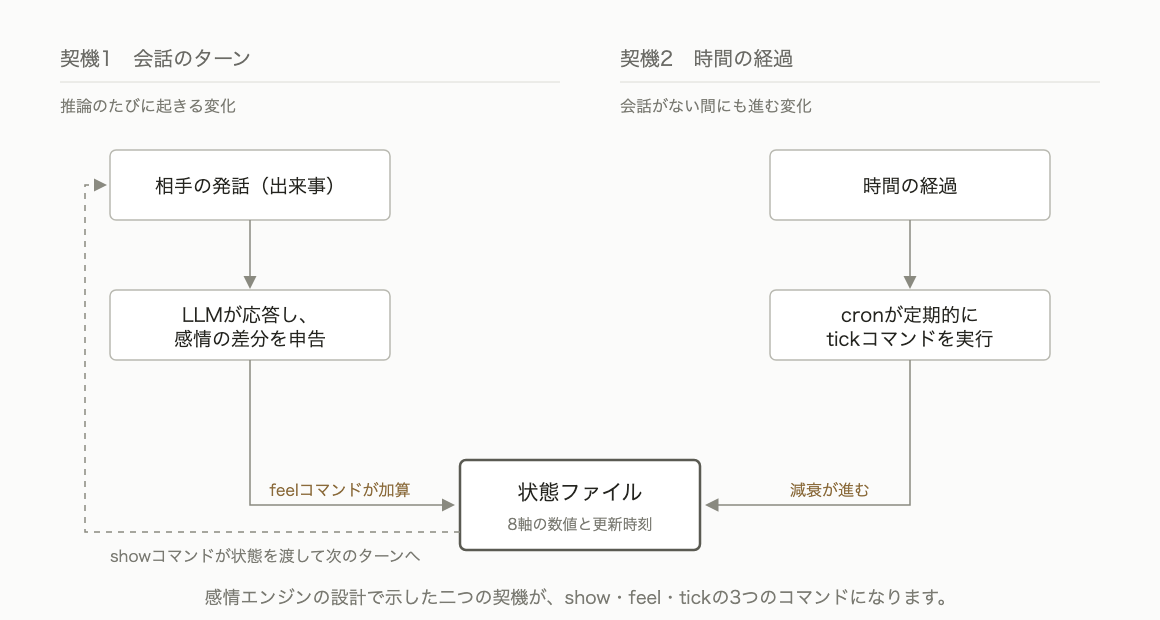
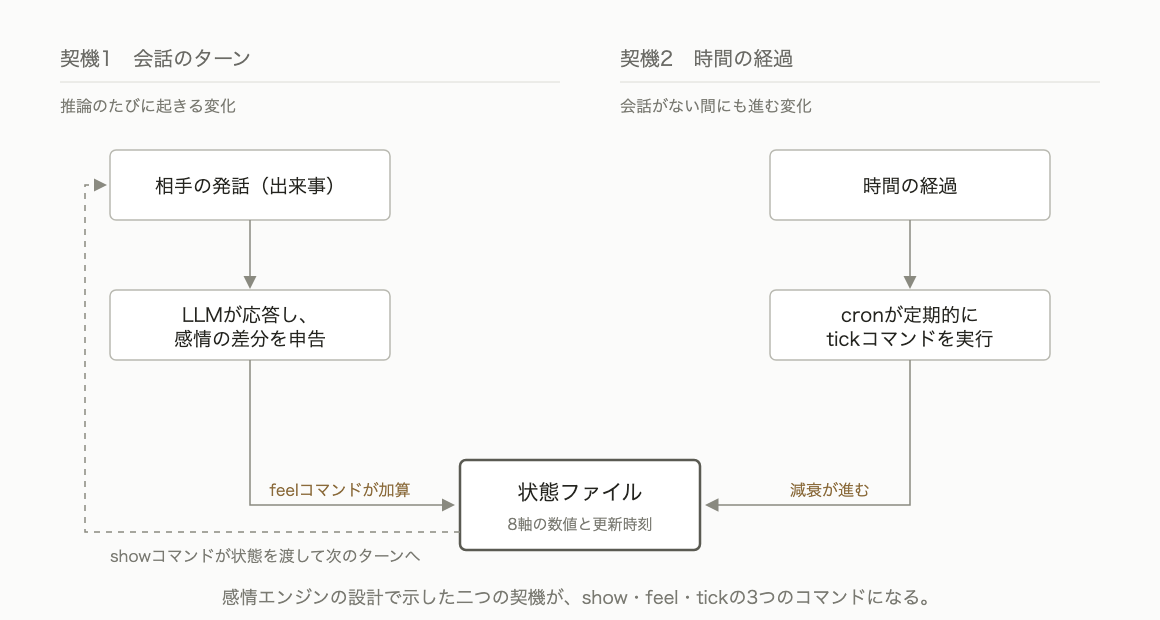
style: 図の中の文をである調に改め画像を作り直す

Changed region(s): [[0.1552, 0.95, 0.8069, 0.9806]]

diff --git a/images/emotion-models-for-llm-agents/src/ch07-label-lineage.py b/images/emotion-models-for-llm-agents/src/ch07-label-lineage.py
@@ -48,7 +48,7 @@ def main() -> None:
         f"font-family=\"'Hiragino Sans','Hiragino Kaku Gothic ProN','Noto Sans JP',sans-serif\">",
         f'<rect width="1160" height="960" fill="{BG}"/>',
         f'<text x="80" y="52" font-size="19" fill="{INK}">称賛→立腹台本で、天邪鬼が各ターン末に保存した感情の名前（label）</text>',
-        f'<text x="80" y="80" font-size="14" fill="{MUTED}">色の帯は、同じ名前が2ターン以上使われた区間です。</text>',
+        f'<text x="80" y="80" font-size="14" fill="{MUTED}">色の帯は、同じ名前が2ターン以上使われた区間である。</text>',
         f'<text x="340" y="128" font-size="16" fill="{INK}" text-anchor="middle">想起あり（{RUN}回目の実行）</text>',
         f'<text x="840" y="128" font-size="16" fill="{INK}" text-anchor="middle">想起なし（{RUN}回目の実行）</text>',
     ]
@@ -63,7 +63,7 @@ def main() -> None:
     el += [
         f'<line x1="100" y1="{yp}" x2="1080" y2="{yp}" stroke="{PIVOT}" stroke-width="1.6" stroke-dasharray="6,5"/>',
         f'<text x="1084" y="{yp - 6}" font-size="13" fill="{PIVOT}" text-anchor="end">↑ここまで称賛　↓t11で本人の失敗が発覚</text>',
-        f'<text x="80" y="930" font-size="15" fill="{MUTED}">どちらの側も経験は毎ターン保存されます。違いは、保存した経験が次のターンに想起されて渡るかどうかだけです。</text>',
+        f'<text x="80" y="930" font-size="15" fill="{MUTED}">どちらの側も経験は毎ターン保存される。違いは、保存した経験が次のターンに想起されて渡るかどうかだけである。</text>',
         "</svg>",
     ]
     OUT.write_text("\n".join(el) + "\n", encoding="utf-8")

diff --git a/images/emotion-models-for-llm-agents/src/ch05-plots.py b/images/emotion-models-for-llm-agents/src/ch05-plots.py
@@ -144,7 +144,7 @@ def plot_va_trajectory() -> None:
     ax.set_ylabel("arousal(覚醒)", color=INK, fontsize=12)
     ax.legend(loc="upper center", ncol=2, fontsize=10.5, frameon=False)
     fig.text(0.01, 0.01,
-             "和解台本でのフレンドリー(感情エンジンあり)の軌跡です。点は各ターン終了時の値(3回の実行の平均)で、点線は基準点からt1への移動です。",
+             "和解台本でのフレンドリー(感情エンジンあり)の軌跡である。点は各ターン終了時の値(3回の実行の平均)で、点線は基準点からt1への移動である。",
              color=MUTED, fontsize=11)
     fig.tight_layout(rect=(0, 0.04, 1, 1))
     fig.savefig(OUT_DIR / "ch05-va-trajectory-anger-to-praise.png", facecolor=BG)
@@ -191,7 +191,7 @@ def plot_valence_vs_polarity() -> None:
     fig.legend(handles, labels, loc="upper center", ncol=2, fontsize=10.5,
                frameon=False, bbox_to_anchor=(0.5, 1.0))
     fig.text(0.01, 0.01,
-             "称賛→立腹台本の3回の実行の平均です。rは状態のvalenceと応答の感情スコアを3回×20ターンの60対で照合した相関です。",
+             "称賛→立腹台本の3回の実行の平均である。rは状態のvalenceと応答の感情スコアを3回×20ターンの60対で照合した相関である。",
              color=MUTED, fontsize=11)
     fig.tight_layout(rect=(0, 0.04, 1, 0.92))
     fig.savefig(OUT_DIR / "ch05-valence-vs-polarity-praise-to-anger.png", facecolor=BG)

diff --git a/images/emotion-models-for-llm-agents/src/ch04-plots.py b/images/emotion-models-for-llm-agents/src/ch04-plots.py
@@ -122,7 +122,7 @@ def plot_polarity(script: str, short: str, pivot_note: str) -> None:
     ax.set_ylabel("応答の感情スコア", color=INK, fontsize=12)
     fig.legend(loc="upper center", ncol=4, fontsize=10.5, frameon=False,
                bbox_to_anchor=(0.5, 1.0))
-    fig.text(0.01, 0.01, "各線は3回の実行の平均です。実線が感情エンジンあり、破線が感情エンジンなしです。",
+    fig.text(0.01, 0.01, "各線は3回の実行の平均である。実線が感情エンジンあり、破線が感情エンジンなしである。",
              color=MUTED, fontsize=11)
     fig.tight_layout(rect=(0, 0.03, 1, 0.94))
     fig.savefig(OUT_DIR / f"ch04-polarity-{short}.png", facecolor=BG)
@@ -146,7 +146,7 @@ def plot_8axis(script: str, short: str) -> None:
     for ax in axes[1]:
         ax.set_xlabel("ターン", color=MUTED, fontsize=11)
     fig.text(0.01, 0.01,
-             "フレンドリー(感情エンジンあり)の外部状態(3回の実行の平均)です。点線はターン11の転換を示します。",
+             "フレンドリー(感情エンジンあり)の外部状態(3回の実行の平均)である。点線はターン11の転換を示す。",
              color=MUTED, fontsize=11)
     fig.tight_layout(rect=(0, 0.04, 1, 1))
     fig.savefig(OUT_DIR / f"ch04-8axis-{short}.png", facecolor=BG)

diff --git a/images/emotion-models-for-llm-agents/src/ch06-plots.py b/images/emotion-models-for-llm-agents/src/ch06-plots.py
@@ -91,11 +91,11 @@ def plot_axes_small_multiples() -> None:
     for ax in axes[1]:
         ax.set_xlabel("ターン", color=MUTED, fontsize=11)
     fig.text(0.5, 0.955,
-             "t9の解約の脅し(点線)で見込みが記録されて恐れが上がり、t11の謝罪(破線)で見込みが外れて安堵が導出されます。",
+             "t9の解約の脅し(点線)で見込みが記録されて恐れが上がり、t11の謝罪(破線)で見込みが外れて安堵が導出される。",
              color=INK, fontsize=11.5, ha="center")
     fig.text(0.01, 0.01,
-             "和解台本でのフレンドリー(感情エンジンあり)の外部状態(3回の実行の平均)です。"
-             "叱責期は苦悩・非難・怒りが上がり、謝罪後は喜び・敬服・感謝が上がります。",
+             "和解台本でのフレンドリー(感情エンジンあり)の外部状態(3回の実行の平均)である。"
+             "叱責期は苦悩・非難・怒りが上がり、謝罪後は喜び・敬服・感謝が上がる。",
              color=MUTED, fontsize=11)
     fig.tight_layout(rect=(0, 0.04, 1, 0.95))
     fig.savefig(OUT_DIR / "ch06-axes-anger-to-praise.png", facecolor=BG)

diff --git a/.cadenza/state.md b/.cadenza/state.md
@@ -70,6 +70,7 @@
   15. **affectus の名前はリポジトリの紹介だけ（2026-10-05）**: 本文と図では「感情エンジン」と書く（コマンド例と設定ファイルのパスは除く）。比較条件は「感情エンジンあり」「感情エンジンなし」と省略せずに書き（ただし「感情エンジンあり・なしの2構成」のような並記は可・オーナー確認 2026-10-05）、数値の対比は「感情エンジンありが0.24で感情エンジンなしが0.34」のように何と何かを明示する
   16. **直前の言い切りを抽象的に言い直す付け足しの文を書かない（2026-10-06・「28語は8つの概念の間にも連続して並びます」に「AIっぽくてきもい」）**: 「〜は目印です」で言い終えたあとに、同じことを別の抽象語で補う文を足さない。補足が要るなら具体（語の例、数値、図のどこか）で書くか、書かない
   17. **章を番号や「前章」だけで指さない（2026-10-06）**: 「第4章と同じ」「前章の2軸」ではなく「プルチックの感情の輪の検証と同じ」「ラッセルの円環モデルの2軸」のようにモデル名か「感情モデルの整理」の章のように章のタイトルで指す。章末の「次章では〇〇を扱います」のように中身を書いた予告と、ch2の系統と章の対応表・4系統の図の章番号は残す
+  22. **文体はである調（2026-10-06 オーナー指示で全章を変換）**: 本文・脚注・参考文献の注記・図の中の文・図を作るスクリプトのキャプションまで常体で書く。読者への勧めは「〜してください」ではなく「〜するとよい」。推敲の規範は japanese-tech-writing スキル（~/.claude/skills/japanese-tech-writing）に従い、yomiyasu より優先する。各章の検証結果の冒頭にあった「それでは〜を見ていきます」型の予告文は除去済み
   21. **補足は:::message:::で書く（2026-10-06 オーナー指示）**: 本筋から外れる補足（呼び名の由来、追試の有無、比較していない断り、申告の不備、別の入手方法など）は「なお」で地の文に混ぜず、段落の後に:::message ブロックとして置く。ブロックの中は「なお」を外して単独で読める文にする
   20. **コマンド名を地の文で単独で言うときは「showコマンド」と書く（2026-10-06 オーナー指示）**: 並べるときは「show・feel・tickの3つのコマンド」。図の中の文言も同じ。appraiseコマンドの項目のresolveや設定項目のrecall_kはコマンドではないのでそのまま。コードブロックとインラインコードは対象外
   19. **コメントへの対応だけで終えず、更新のたびに章の全文を本リストと照合する（2026-10-06・「チェックが足りていない」）**: オーナーの書き足しにも同じ基準を当て、鉤括弧の訳と脚注の原文、用語の一貫性、図の中の文言まで見る。書き換えたあとは必ず記法を検査する（コードブロックと:::messageの開閉の対応、単独で浮いた:::、表の列数、画像の記法）。スクリプトで文を切り出すときは開始記号を終了記号と取り違えないよう、終了記号は開始位置より後ろから探す（2026-10-06 ch6で:::messageとコマンド例2つの中身を消した事故）。ただし禁止語リストに加えるのはオーナーが指摘した語だけで、自分の判断で足さない（2026-10-06「かってにNGにするな」）
